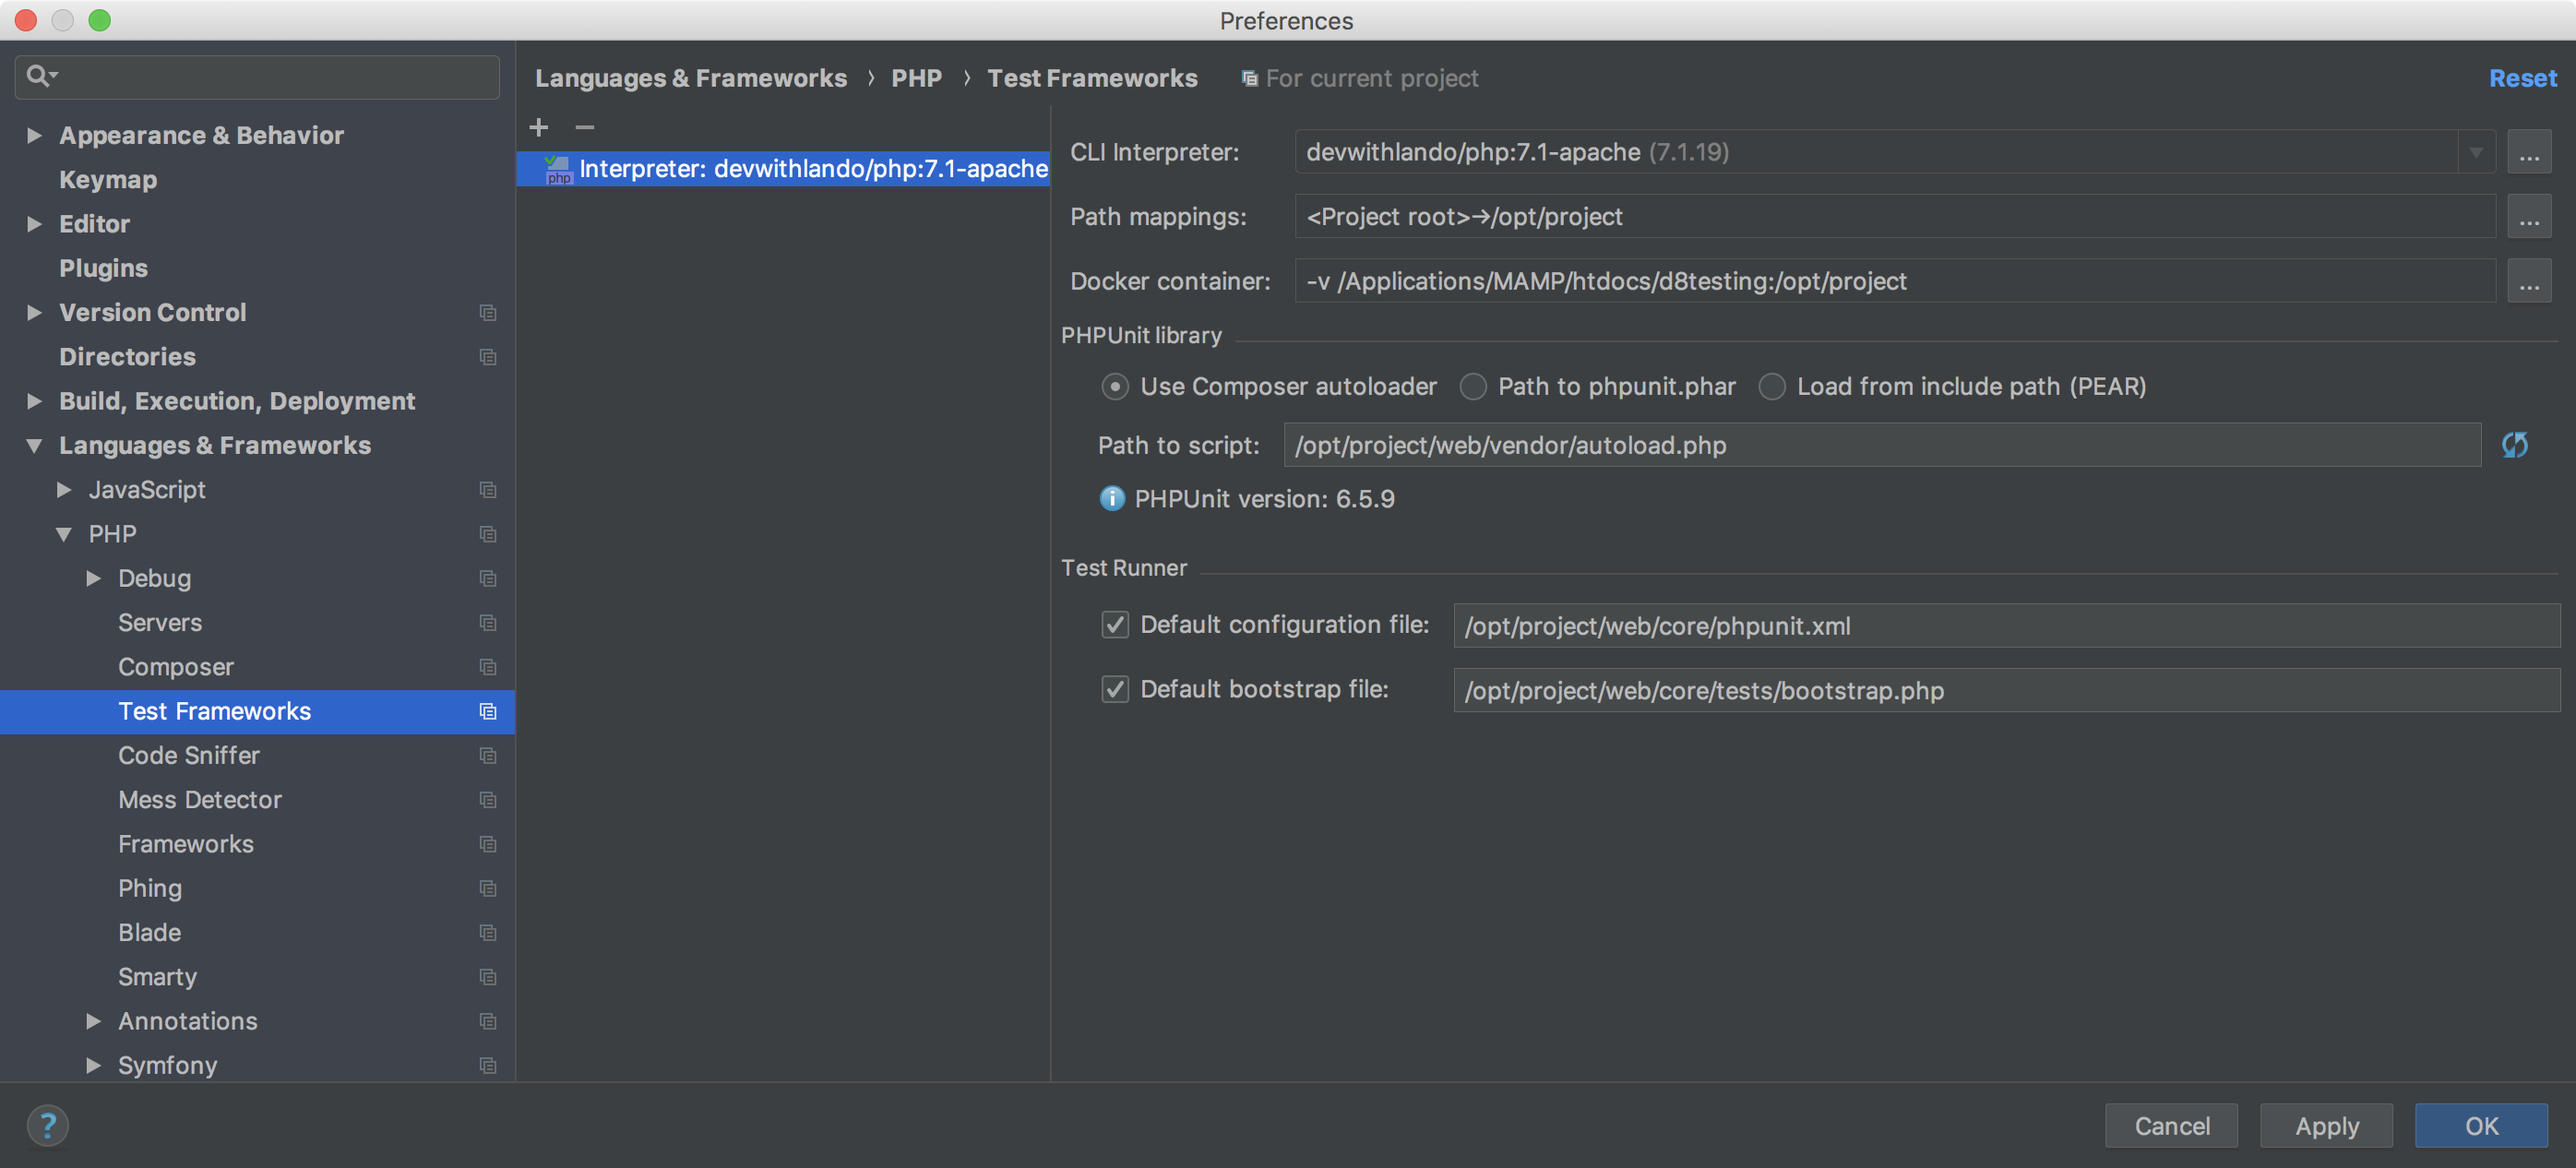
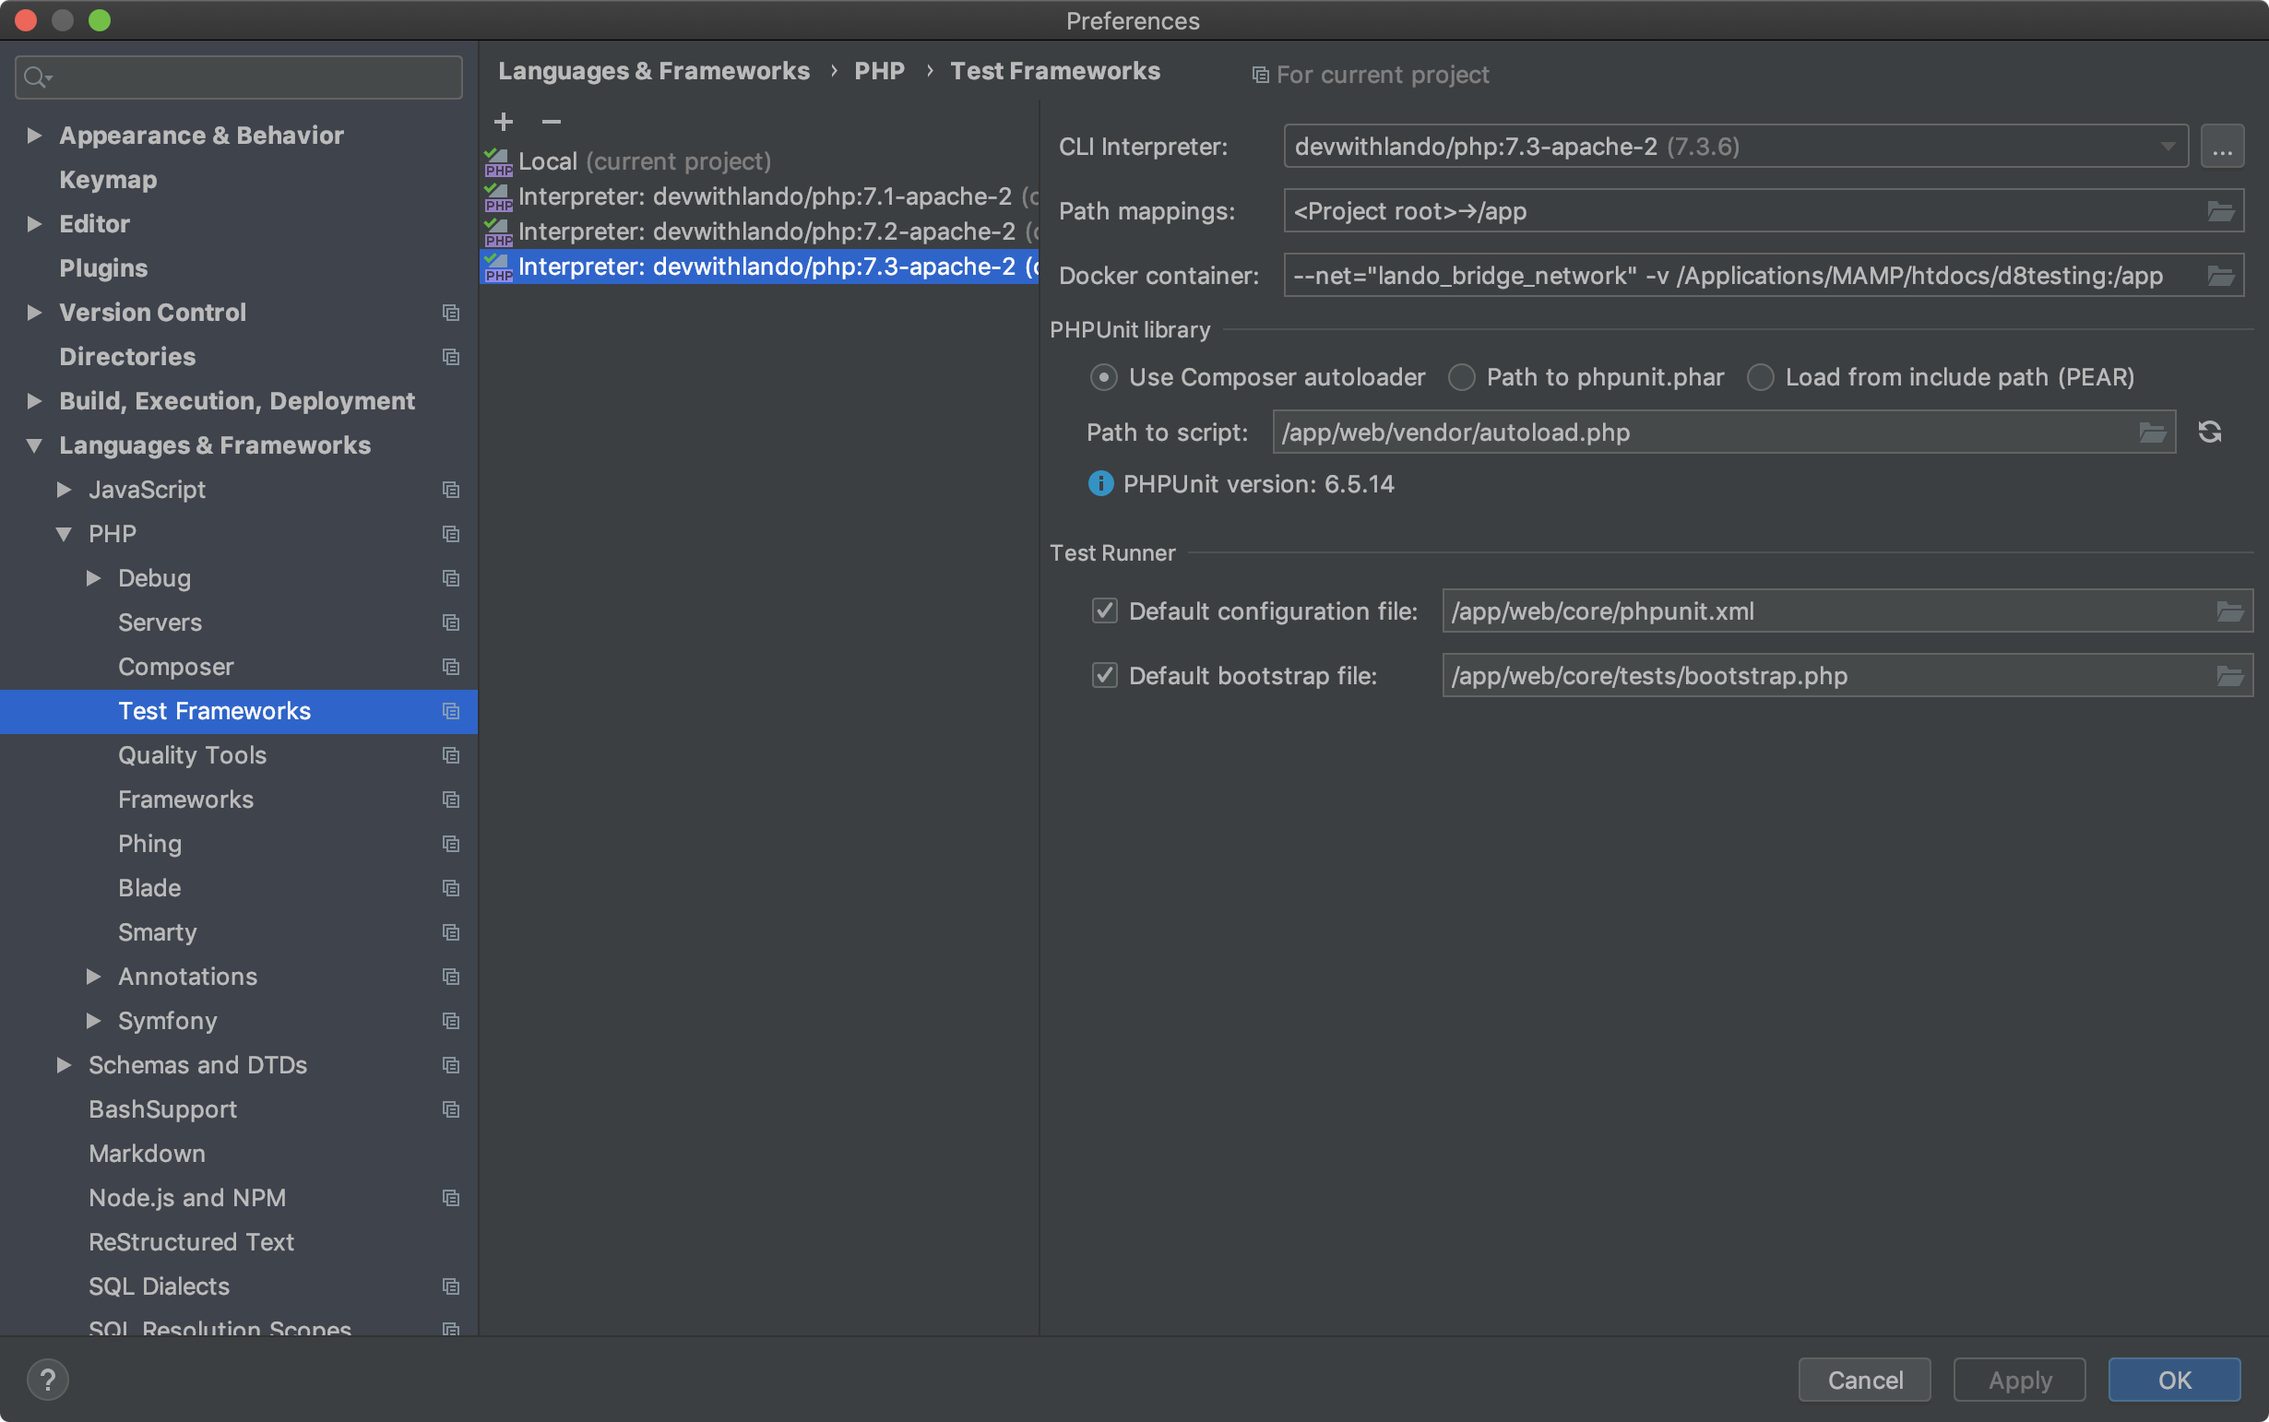
updated readme and defaults

diff --git a/README.md b/README.md
@@ -6,9 +6,9 @@ The purpose of this lando "recipe" is to provide an easy setup for Drupal 8 core
 ## Setup 
 
 ### To start:
-1. Make sure your software stack is installed and up to date: you need [lando](https://github.com/lando/lando/releases), Docker, Chrome and java.
+1. Make sure your software stack is installed and up to date: you need an up to date version of [lando](https://github.com/lando/lando/releases), Docker, Chrome and java.
 2. Download the the repo to a new empty dir.
-3. Run lando start from inside this dir.
+3. Start docker and run lando start from inside this dir.
 
 ### Run!
 
@@ -30,16 +30,24 @@ NNNB: Sometimes testing becomes very slow. It can help to restart docker, or eve
 
 The test output files can be found in various locations under the /files directory.
 
-### Running tests and debugging in PHPStorm: check your PHPStorm debug settings:
-- Register Docker so you can register its PHP interpreter: Preferences > Build, Execution, Deployment > Docker ![docker](README.images/docker.png)
+### Debugging in PHPStorm: check your PHPStorm debug settings:
+- To debug tests run from the command line you only need to provide a php server configuration in PhpStorm. Configure path mappings so PHPStorm knows where you are when debugging. Make sure the server is named 'appserver' and you map the top level path to '/app': Preferences > Languages & Frameworks > PHP > Servers ![server-path-mappings](README.images/server-path-mappings.png)
+
+Try and enable xdebug ('lando xdebug-on'), enable your debug listener in PHPStorm, setting a breakpoint in a test and running a test. You should now be able to debug your tests. 
+
+NB: Running Docker (for Mac) with a debugger on slows down php quite a bit. Use the tooling provided to quickly switch debugging on/off without restarting your containers: 'lando xdebug-on' and 'lando xdebug-off'.  
+
+### Running tests in PHPStorm: check your PHPStorm debug settings:
+- To run tests from the PhpStorm GUI you need to configure a test framework. The test framework needs a CLI interpreter that refers to Docker, so the first thing to do is configure PhpStorm to register Docker: Preferences > Build, Execution, Deployment > Docker ![docker](README.images/docker.png)
 - Register the CLI PHP interpreter from Docker so you can use its debugger: Preferences > Languages & Frameworks > PHP, then click the '...' button after CLI Interpreter, then add a new From Docker interpreter from the correct Docker image ![cli-interpreters](README.images/cli-interpreters.png)
-- Configure the PHP debug settings, especially the max simultaneous connections: Preferences > Languages & Frameworks > PHP > Debug ![debug](README.images/debug.png)
-- Configure a server with path mappings so PHPStorm knows where you are when debugging. Make sure the server is named 'appserver' and you map the top level path to '/app': Preferences > Languages & Frameworks > PHP > Servers ![server-path-mappings](README.images/server-path-mappings.png)
-- Configure the test framework so PHPStorm can run tests using the PHPStorm GUI (right click a test and select "run"). Add a PHPUnit by Remote Interpreter and choose the Docker interpreter. Make sure you set the config file and bootstrap file using paths that are local to the PHPStorm docker helper container as shown: Preferences > Languages & Frameworks > PHP > Test Frameworks ![test-framework](README.images/test-framework.png)
+- Change the default Docker container settings so the network and path mapping correspond to lando's defaults: Preferences > Languages & Frameworks > PHP, then click the folder icon after button after the line "Docker container" ![docker-container](README.images/docker-container.png)
+- Configure the test framework so PHPStorm can run tests using the PHPStorm GUI: Preferences > Languages & Frameworks > PHP > Test Frameworks, add a PHPUnit by Remote Interpreter and choose the Docker interpreter. Make sure you set the autoload script, config file and bootstrap file using paths that are local to the PHPStorm docker helper container as shown: ![test-framework](README.images/test-framework.png)
 
 In PHPStorm try to right-click a test function and select 'run'. Running tests via the PHPStorm GUI currently only works with Unit and Kernel tests.
 
-Try and enable your debug listener in PHPStorm, setting a breakpoint in a test and running a test (CLI or GUI). You should now be able to debug your tests. 
+- If you are having trouble getting this to work check the PHP debug settings, especially the max simultaneous connections: Preferences > Languages & Frameworks > PHP > Debug ![debug](README.images/debug.png)
+
+
 
 ### The files in this package do the following:
 - **.lando.yml**: the lando file that spins up the apache/php/database containers and set some defaults. Here the init.sh script is called after the containers are up.
@@ -51,7 +59,6 @@ Try and enable your debug listener in PHPStorm, setting a breakpoint in a test a
 
 ## Future imporvements
 - run functional and fjs tests via PHPStorm GUI
-- find out why we cannot use phpunit 7
 - export and import PHPStorm settings
 - enable Test module by default
 - use Chromedriver without Selenium
